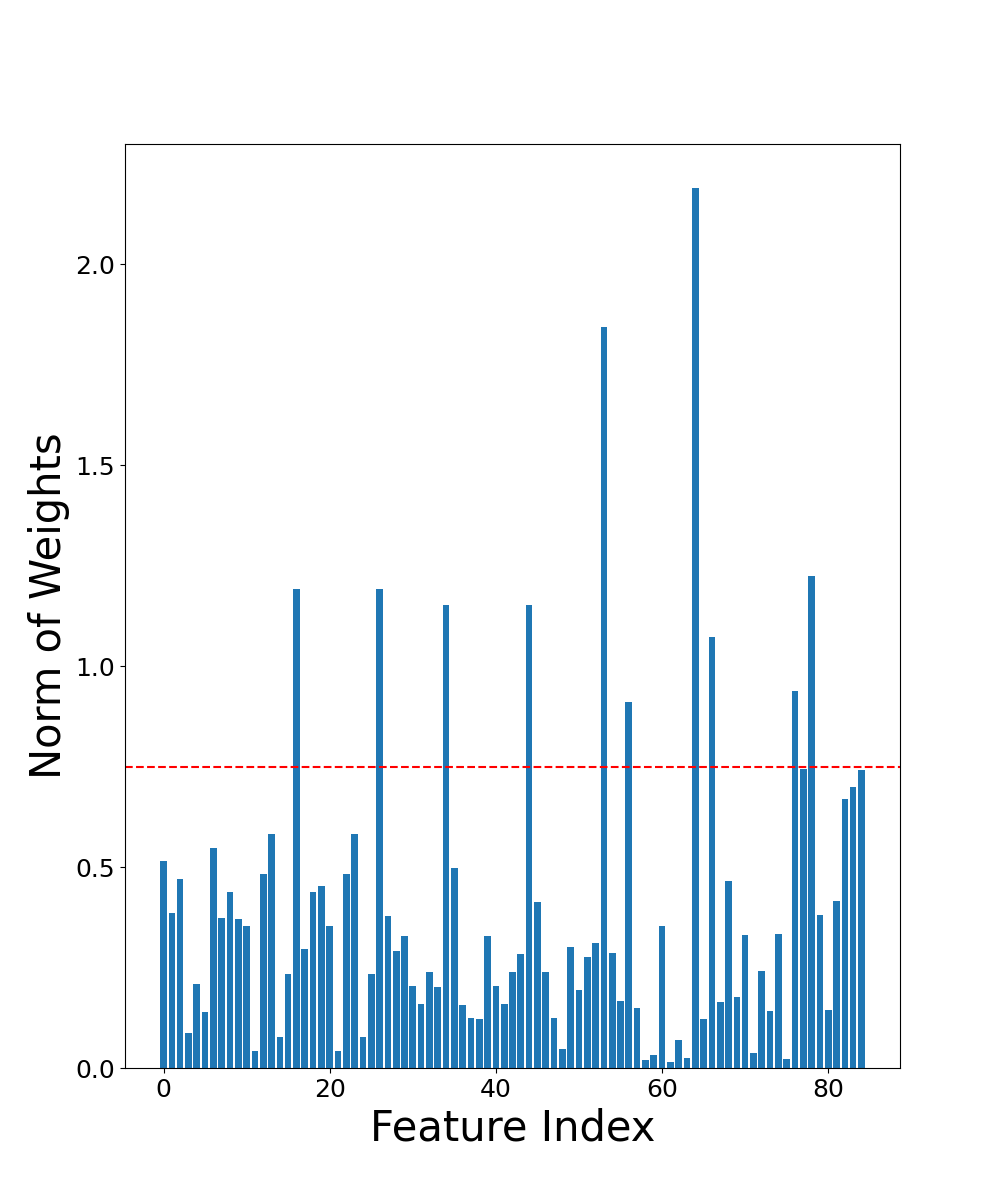
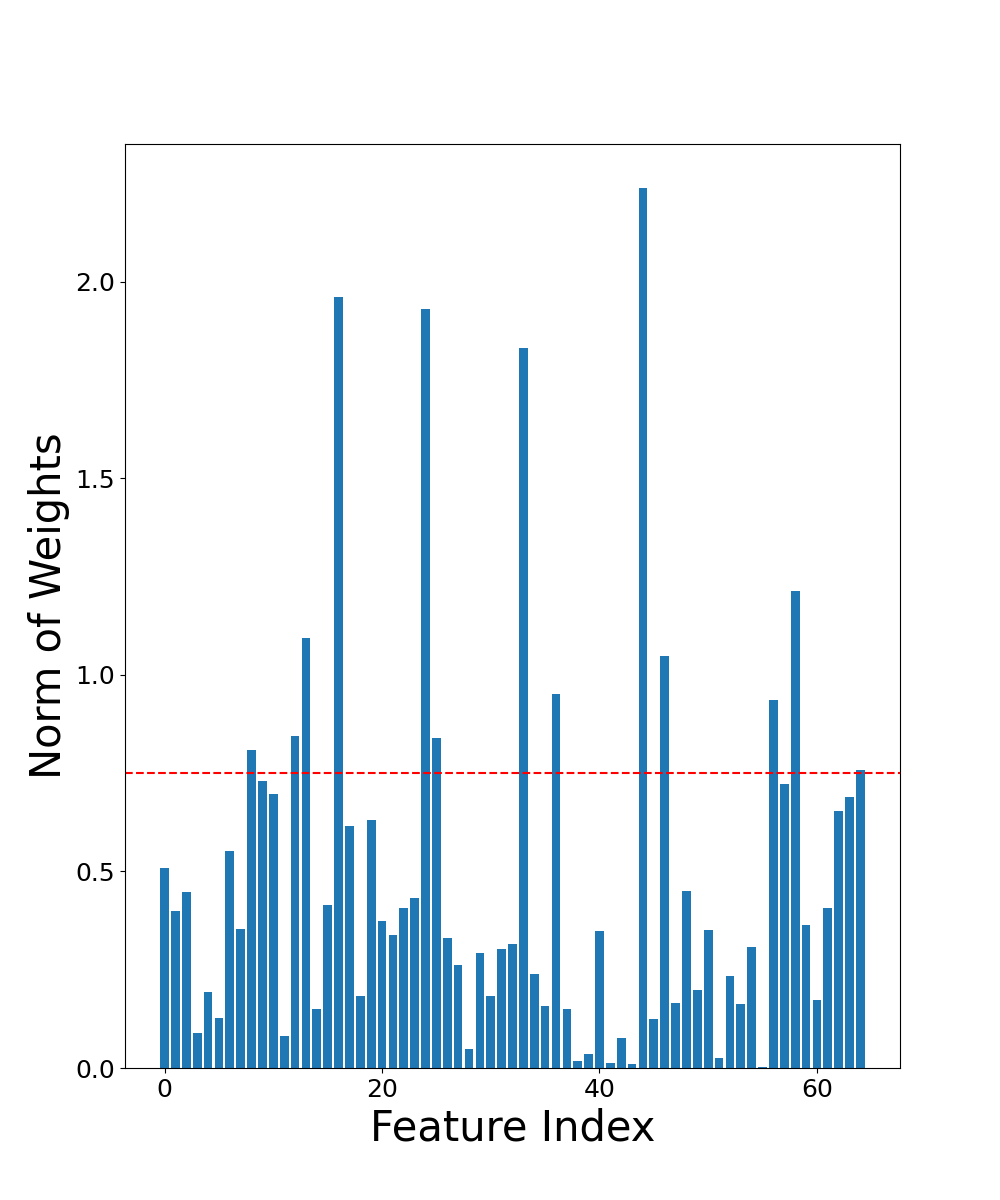
changed plots

diff --git a/plots.py b/plots.py
@@ -173,15 +173,22 @@ plt.rc('font', size=30)
 plt.yticks(fontsize=18)
 plt.show()
 # < ---------------------------Logistic Regression Weights------------------------------- >
+# Load data weights
+df_w = pd.read_csv('Datasets/df_weights.csv', sep=";", header=0, index_col=0)
+
+# Separate X from prediction y
+X_w = df_w.drop(columns=['SURVEY_NAME'])
+y_w = df_w['SURVEY_NAME']
+
+# Separate data into training and testing
+X_train_w, _, y_train_w, _ = train_test_split(X_w, y_w, test_size=0.2, random_state=0)
+
 # Model definition
 logreg_model = LogisticRegression(penalty='l2', C=1.0, random_state=42, max_iter=1000)
-logreg_model.fit(X_train, y_train)
-
-y_pred_logreg = logreg_model.predict(X_test)
+logreg_model.fit(X_train_w, y_train_w)
 
 # Display the weights
 weights = logreg_model.coef_[0]  
-intercept = logreg_model.intercept_
 
 # Norm of the weights
 weights = np.abs(weights)
@@ -218,11 +225,11 @@ features = ['EMR1', 'EMR4', 'EMR5', 'EMR8', 'KR6', 'KR7', 'M6', 'M9', 'S10', 'S1
 new_ind = np.linspace(0,len(nonzero_indices), len(nonzero_indices)) 
 
 # Plot the norm of the significant weights
-plt.figure(figsize= (10,12)) 
+plt.figure(figsize= (10,14))
 plt.bar(new_ind, weights[nonzero_indices])
 plt.xlabel('Feature name', fontsize=30)
 plt.ylabel('Norm of Weights', fontsize=30)
-plt.xticks(new_ind, features ,  rotation='vertical',  ha='center', fontsize=18)
+plt.xticks(new_ind, features ,  rotation='vertical',  ha='center', fontsize=25)
 plt.yticks(fontsize=18)
 plt.savefig(path + "significant_weights.png")
 plt.show()
